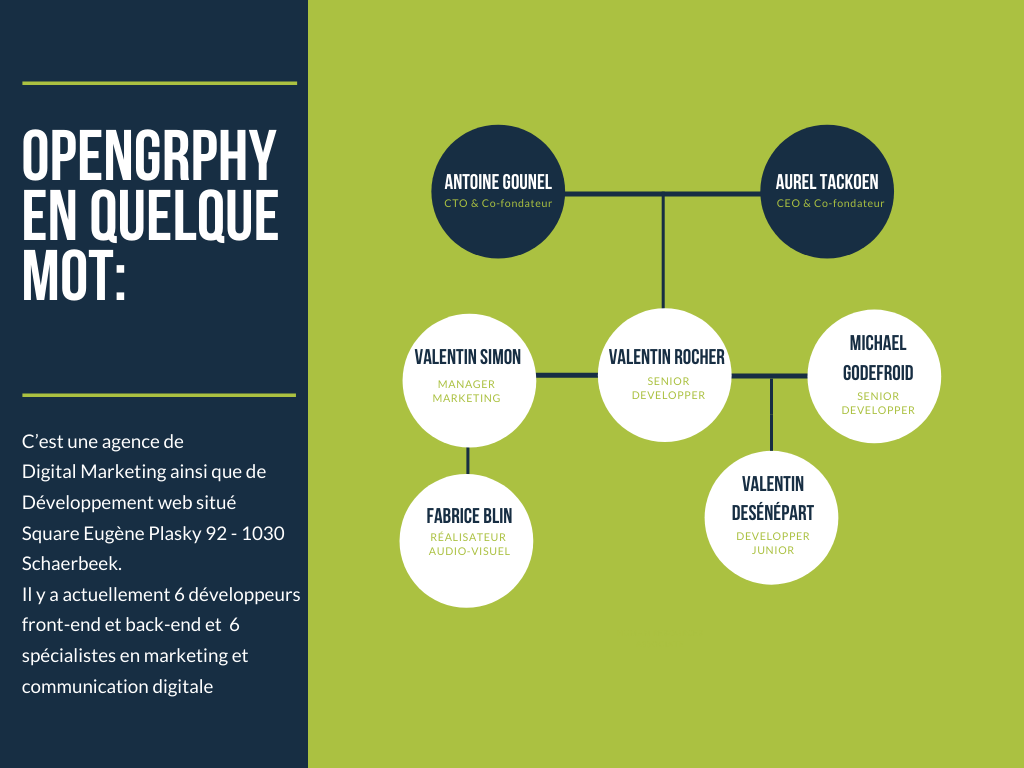
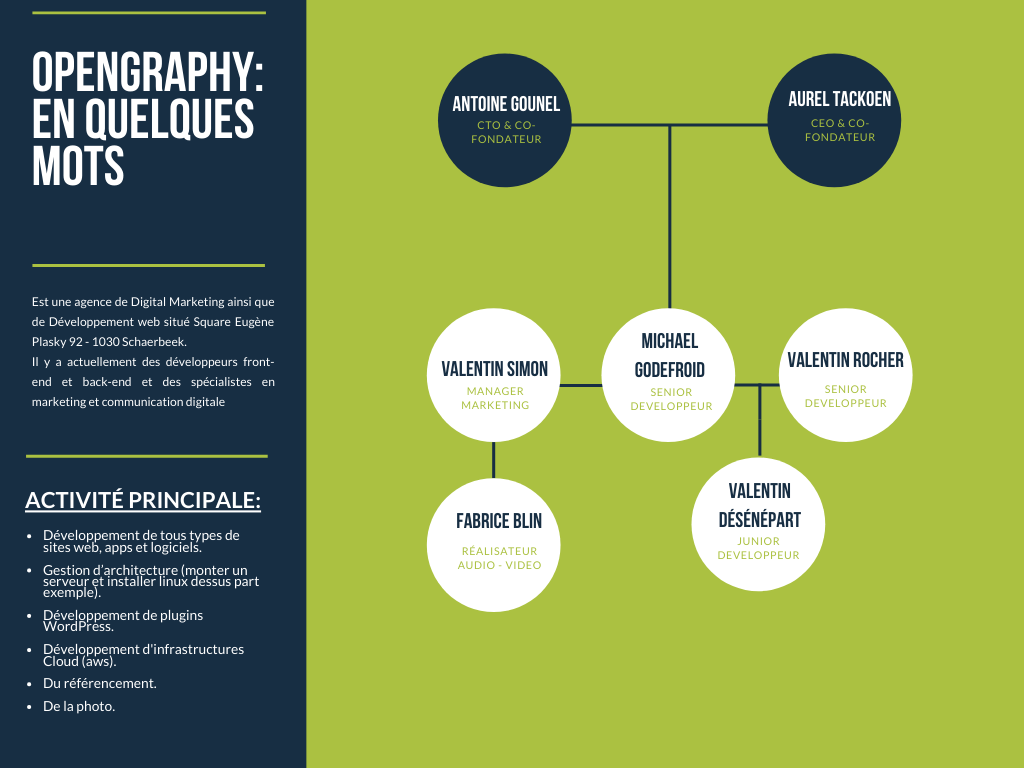
sauvegarde

diff --git a/entreprise/OpenGraphy.html b/entreprise/OpenGraphy.html
@@ -8,7 +8,7 @@
 </head>
 <body>
 <header>
-	<!--img src="image/univers.webp" title="banner" width="100%" height="100%"-->
+	<!--img src="image/..." title="banner" width="100%" height="100%"-->
 </header>
 <nav>
 	<ul>
@@ -31,30 +31,20 @@
 </nav>
 <main>
 	<section>
-		<p>J’ai pris contact avec l’agence par téléphone.
-		</p>
-		<p>J’ai directement eu Antoine qui est le CEO d’OpenGraphy, d’un air très enthousiaste il a directement acceptée ma demande d’interview.
-		</p>
-		<p>Arrivé à l’agence je suis accueillie par Antoine qui me présente les lieux, et aussi Michael qui est le Développeur senior avec qui je ferai mon interview.
-		Avant même d’avoir pu commencer mon interview, Il m’a aussi conseillé de ne pas hésiter à le recontacter plus tard si je cherche un stage, il sera ravi de pouvoir m’aider si l’occasion se présente, car il y a souvent des stagiaires là-bas.
-		</p>
-		<p>S’il y a bien une chose que je retiens de cette rencontre c’est que même si le boulot peut part moment être compliqué, l’ambiance et l’entente entre chacun est super, et ils n’hésitent pas à s’entraider et cela m’a vraiment donnée envie de tenter ma chance pour faire un stage chez eux.
-		</p>
-		<p>Ça fait plaisir de discuter avec quelqu’un qui prend plaisir de vous parler de son travail, l’impression que Michael m’a donné surtout c’est que pour lui c’était plus une passion qu’une obligation de travaillé dans ce domaine.
-		</p>
+				
+		<p>J’ai pris contact avec l’agence par téléphone.</p>
+
+		<p>J’ai directement eu Antoine qui est le CTO d’<a href="https://www.opengraphy.com/" target="_blank"> OpenGraphy </a>, d’un air très enthousiaste il a directement accepté ma demande d’interview.</p>
+
+		<p>Arrivé à l’agence je suis accueillie par Antoine qui me présente les lieux, et aussi Michael qui est le développeur senior avec qui je ferai mon interview. Avant même d’avoir pu commencer mon interview, Il m’a aussi conseillé de ne pas hésiter à le recontacter plus tard si je cherche un stage, il sera ravi de pouvoir m’aider si l’occasion se présente, car il y a souvent des stagiaires là-bas.</p>
+
+		<p>S’il y a bien une chose que je retiens de cette rencontre c’est que même si le boulot peut par moment être compliqué, l’ambiance et l’entente entre chacun sont super, et ils n’hésitent pas à s’entraider et cela m’a vraiment donné envie de tenter ma chance pour faire un stage chez eux.</p>
+
+		<p>Ça fait plaisir de discuter avec quelqu’un qui prend plaisir de vous parler de son travail, l’impression que Michael m’a donnée surtout c’est que pour lui c’était plus une passion qu’une obligation de travailler dans ce domaine.</p>
 
 		<img src="../image/organigramme.png">
+		</section>
 
-		<dl>Activité princicale:
-		<dt>Création et gestion de site ou d’application</dt>
-		<dt>Gestion d’architecture (monter un serveur et installer linux dessus part exemple)</dt>
-		<dt>Du référencement</dt>
-		<dt>De la photo</dt>
-		</dl>
-	</section>
-
-
-	
 </main>
 	<footer> 
 		<ul>

diff --git a/entreprise/formation.html b/entreprise/formation.html
@@ -8,7 +8,7 @@
 </head>
 <body>
 <header>
-	<!--img src="image/univers.webp" title="banner" width="100%" height="100%"-->
+	<!--img src="image/..." title="banner" width="100%" height="100%"-->
 </header>
 <nav>
 	<ul>
@@ -34,13 +34,14 @@
 
 	<main>
 	<section>
-	<p>Ça fait plaisir d'avoir déjà pu tester la formation, et de découvrir beaucoup de chose, ou même de rencontrer des gens dans le métier ainsi que faire de nouvelle rencontre.</p>
-	<p>Mais je ne m’arrêterai pas la...</p>
-	<p>J'ai consacrée 5ans a ma famille et aux autres ou j’ai mis de côté ma vie professionnel, maintenant que les enfants sont grands il est enfin temps pour moi de penser à moi.</p>
-	<p>Maintenant que j’ai trouvé un métier intéressant, et qui me donne envie d’apprendre et de pouvoir repousser mes limites, je veux faire cette formation déjà pour moi pour pouvoir faire quelque chose qui me plait.</p>
-	<p>Alors oui j’ai bien conscience que ça ne va pas être rose tous les jours, y aura des moments où ça va être dur physiquement et psychologiquement, va y avoir des moments où j’aurai juste envie de tout fermer et retourner au chaud dans mon canapé auprès du chien pour se taper une bonne série sur Netflix, mais SVP faites-moi plaisir ne me donnez pas l’opportunité d’abandonner.</p>
-	<p>Soit fou prenons le chien avec...</p>
+	<p>Ça fait plaisir d'avoir déjà pu tester la formation, et de découvrir beaucoup de choses, ou même de rencontrer des gens dans le métier ainsi que faire de nouvelle rencontre.</p>
+	<p>Mais je ne m’arrêterai pas là...</p>
+	<p>J'ai consacré 5 ans à ma famille et aux autres et j’ai mis de côté ma vie professionnelle, maintenant que les enfants sont grands il est enfin temps pour moi de penser à moi.</p>
+	<p>Maintenant que j’ai trouvé un métier intéressant, et qui me donne envie d’apprendre et de pouvoir repousser mes limites, je veux faire cette formation pour moi pour pouvoir faire quelque chose qui me plaît.</p>
+	<p>Alors oui j’ai bien conscience que ça ne va pas être rose tous les jours, y auront des moments où ça va être dur physiquement et psychologiquement, va-y avoir des moments où j’aurai juste envie de tout fermer et retourner au chaud dans mon canapé auprès du chien pour se taper une bonne série sur Netflix, mais SVP faites-moi plaisir ne me donnez pas l’opportunité d’abandonner.</p>
+	<p>Soyons fou prenons le chien avec....</p>
 
+	<img src="../image/yoda.jpg" width="50%" height="50%" >
 	</section>
 	</main>
 

diff --git a/index.html b/index.html
@@ -8,7 +8,7 @@
 </head>
 <body>
 <header>
-	<!--img src="image/univers.webp" title="banner" width="100%" height="100%"-->
+	<!--img src="image/..." title="banner" width="100%" height="100%"-->
 </header>
 <nav>
 	<ul>
@@ -34,8 +34,11 @@
 	<h1>Mon projet de fin préfo</h1>
 	<section>
 		<p>Bonjour à toutes et à tous,</p>
+
 		<p>Avec ce site je vais vous présenter mon projet pour conclure la fin de ma préformation en Web dev au CF2M.</p>
+
 		<p>je vais vous présenter OpenGraphy une agence Digital Marketing et Web Developpement que j'ai eu l'occasion de visiter, ainsi qu'un petit compte rendu de ma visite a l'expo.</p>
+		
 		<p>Si cela vous tente cliqué sur les liens en-dessous</p>
 
 	</section>

diff --git a/entreprise/interview.html b/entreprise/interview.html
@@ -11,7 +11,7 @@
 </head>
 <body>
 <header>
-	<!--img src="image/univers.webp" title="banner" width="100%" height="100%"-->
+	<!--img src="image/..." title="banner" width="100%" height="100%"-->
 </header>
 <nav>
 	<ul>
